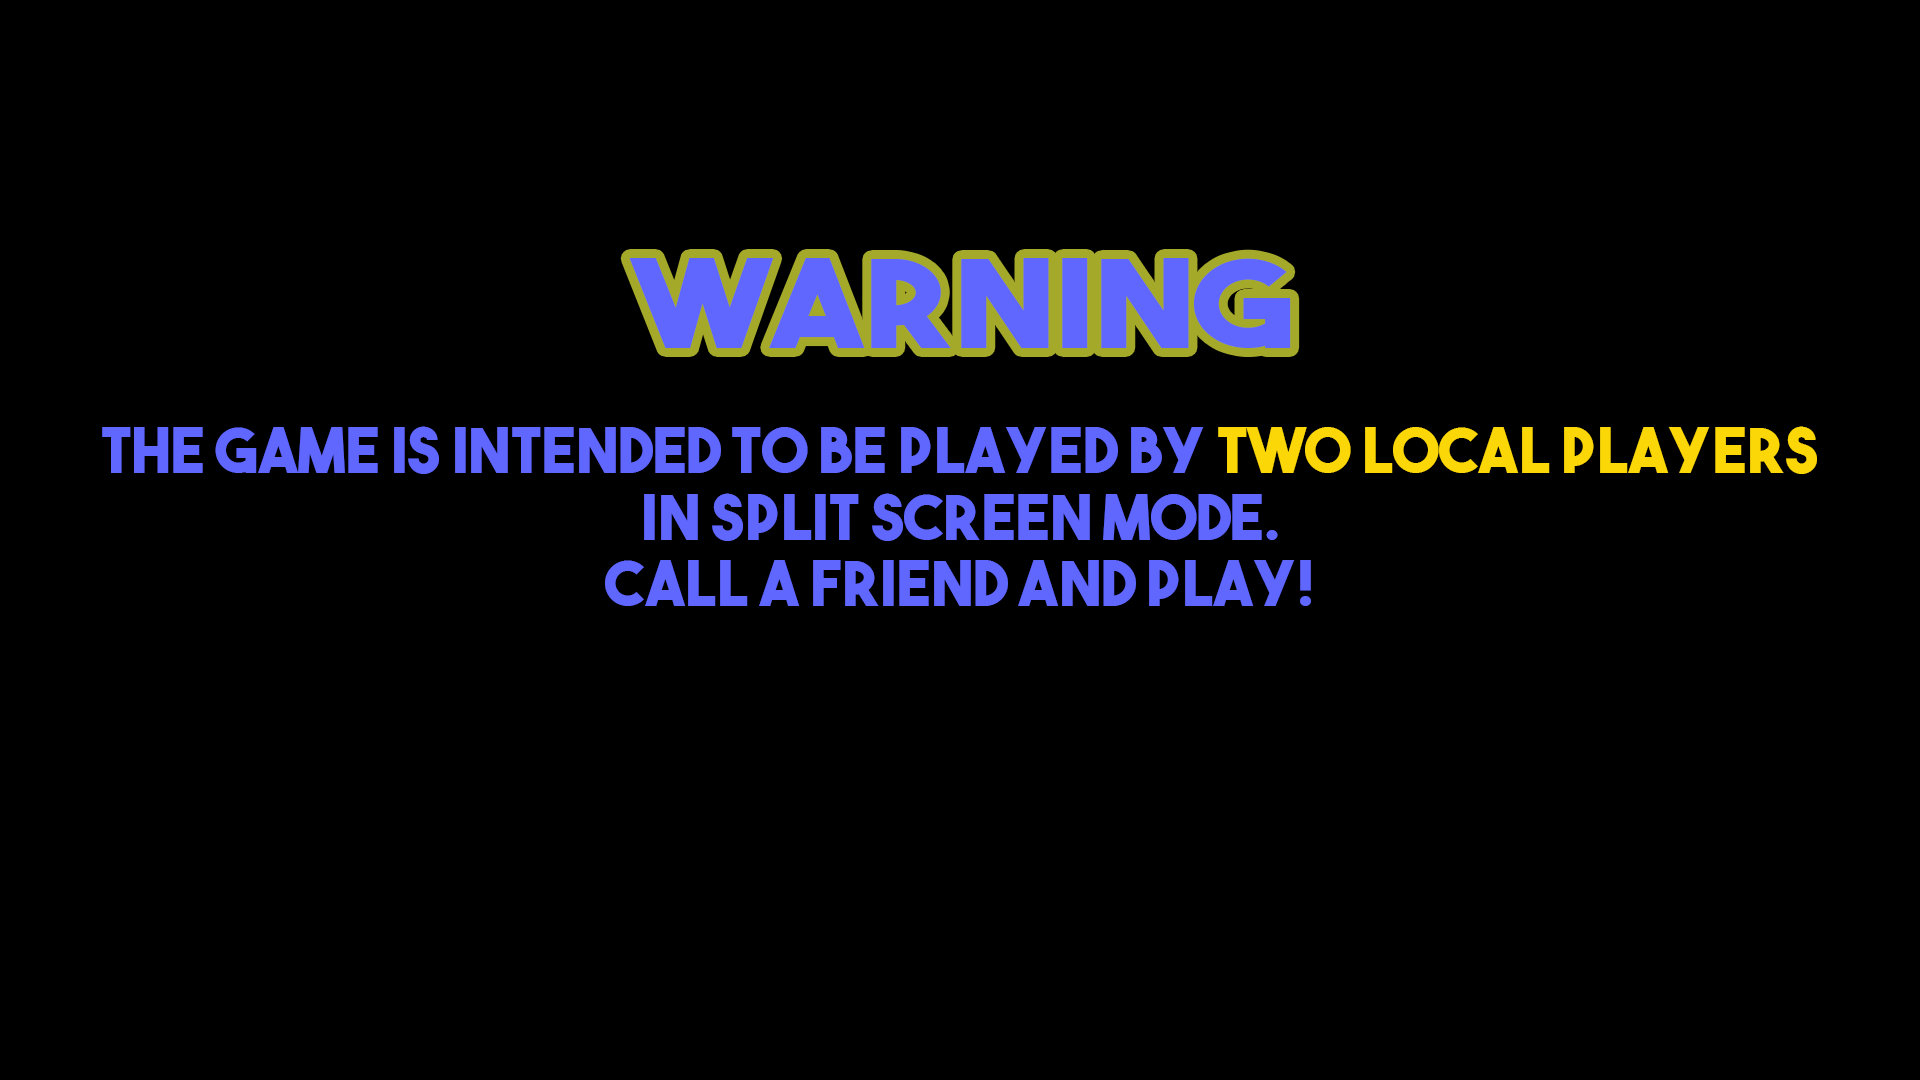
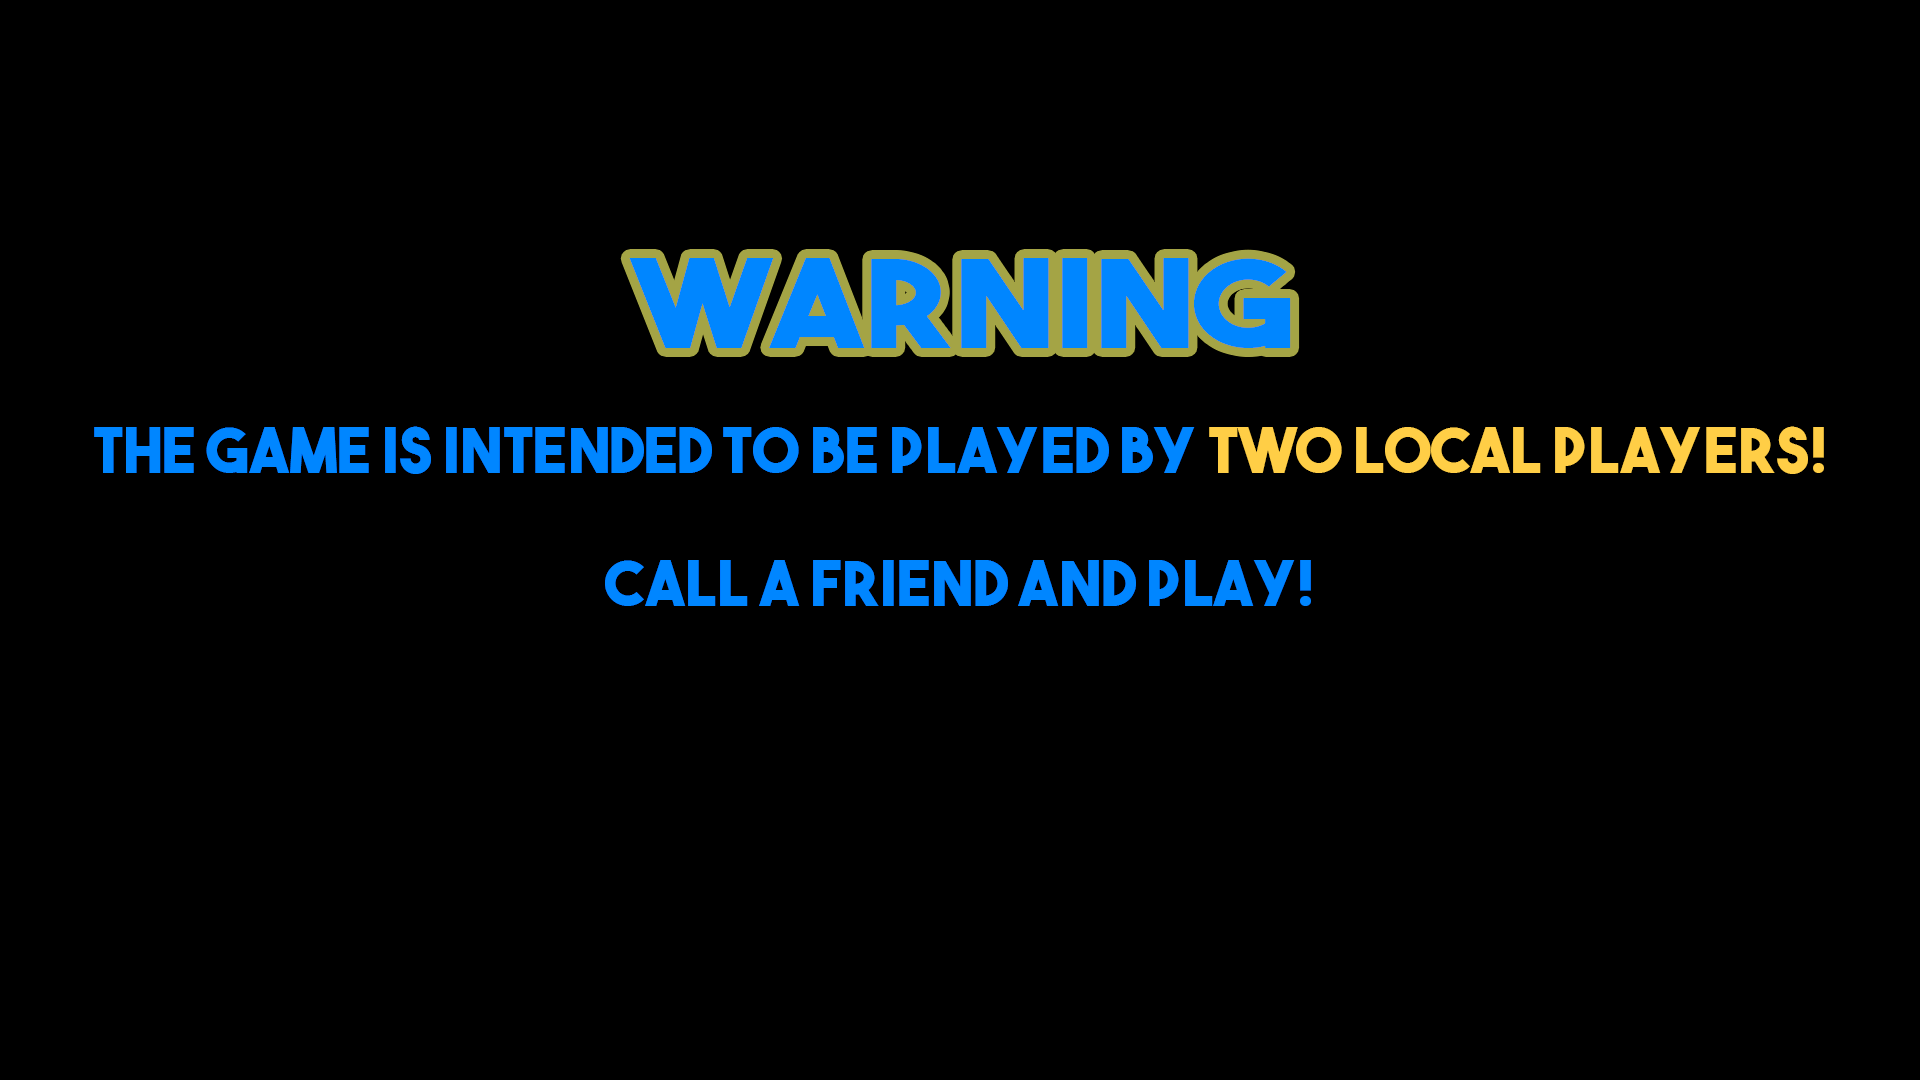
add mixer, fix warning screen

Changed region(s): [[0.0312, 0.3972, 0.9688, 0.5806], [0.3125, 0.2139, 0.6875, 0.3361]]

diff --git a/DontStop/Assets/Scripts/GameplayController.cs b/DontStop/Assets/Scripts/GameplayController.cs
@@ -408,7 +408,7 @@ public class GameplayController : MonoBehaviour
         screenBlurr.gameObject.SetActive(true);
         TutorialController.instance.enableDialogBox(1);
         int ID = stopTime();
-        yield return new WaitForSecondsRealtime(1.5f);
+        yield return new WaitForSecondsRealtime(3f);
         yield return new WaitUntil((() => Input.anyKeyDown));
         resumeTime(ID);
         screenBlurr.gameObject.SetActive(false);
